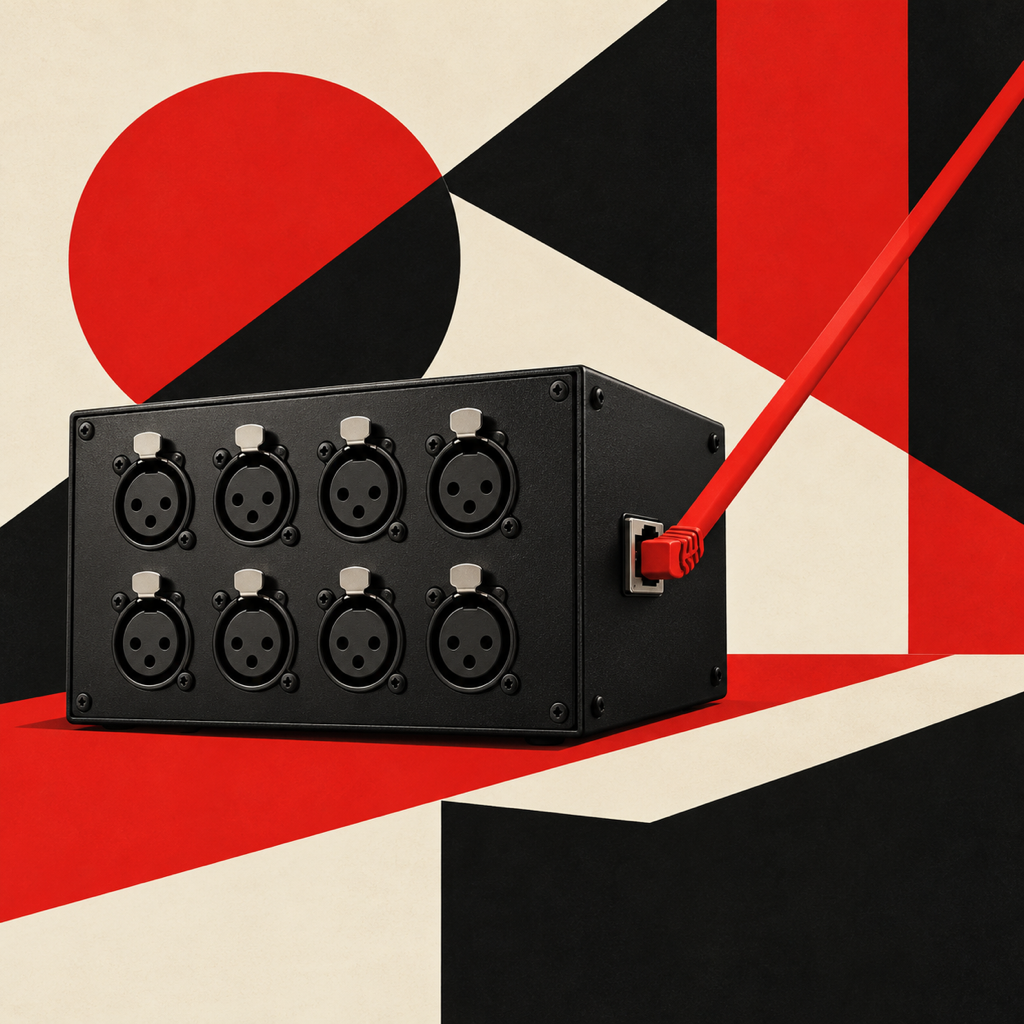
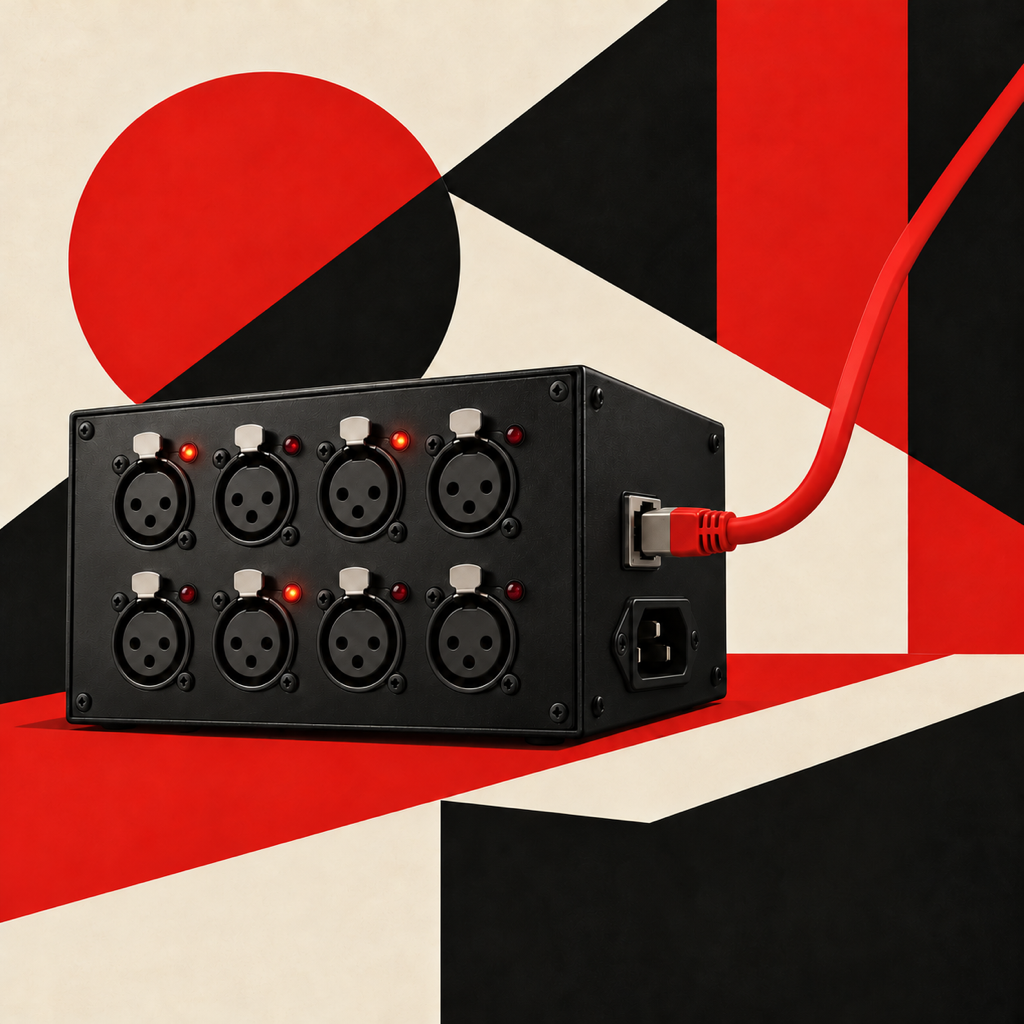
Refine stage-box cable and add IEC inlet and per-channel LEDs

diff --git a/docs/visual-checks.md b/docs/visual-checks.md
@@ -95,3 +95,7 @@ Instructor approved the single-photo-based, horizontally mirrored Micro-B portra
 | 38 | Domed robotic pan/tilt camera | Met: rounded head/lens, two-arm tilt yoke, cylindrical pan base. |
 
 All are1024x1024 PNGs without visible text or logos. Real-photo comparison pending for this batch.
+
+## Digital stage-box revision
+
+21: eight XLR inputs with three socket holes each, eight per-channel phantom-power LEDs (three illuminated), IEC C14 inlet with three blades, and network cable exiting boot inline before a smooth bend. Generic simplified AES50-inspired enclosure; not a literal SD8 port layout. Supersedes earlier no-power/no-LED version.
